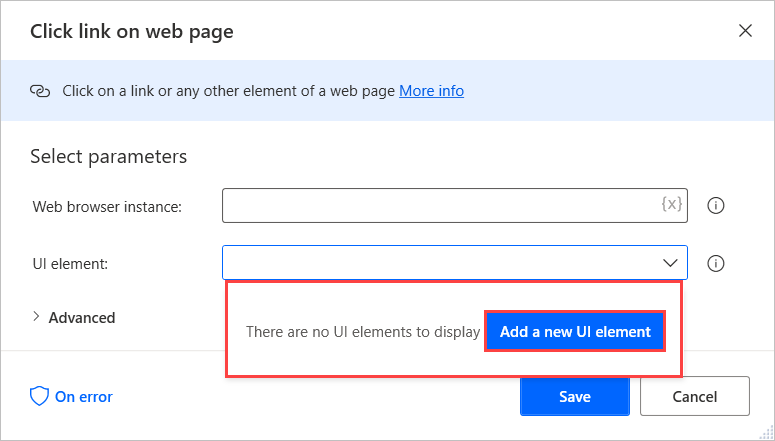
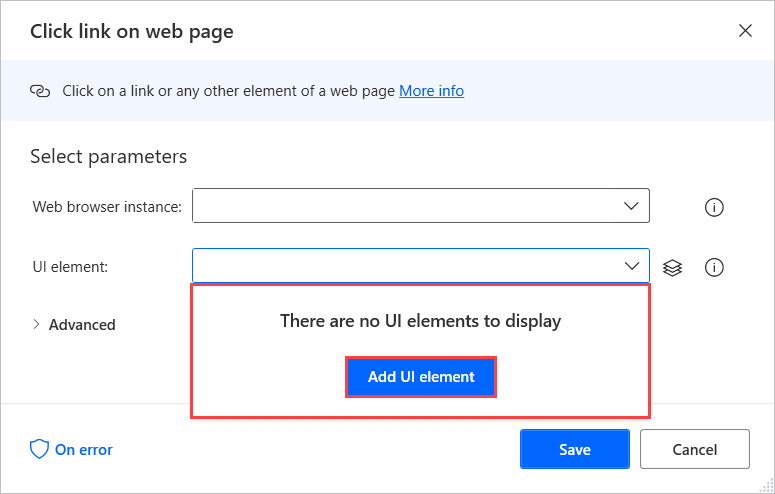
Updated screenshots and text in Web automation in PAD

diff --git a/learn-bizapps-pr/flow/pad-web/includes/3-handle-webpages.md b/learn-bizapps-pr/flow/pad-web/includes/3-handle-webpages.md
@@ -12,7 +12,7 @@ All the actions that handle specific components in web pages require UI elements
 
     ![Screenshot of the U I element field in the Click link on web page action.](..\media\click-link-on-web-page-action-ui-element-field.png)
 
-1. Select one of the already created UI elements or create a new one through the **Add a new UI element** button.
+1. Select one of the already created UI elements or create a new one through the **Add UI element** button.
 
     ![Screenshot of the Add a new U I element button in Click link on web page action.](..\media\click-link-on-web-page-action-add-new-ui-element-button.png)
 
